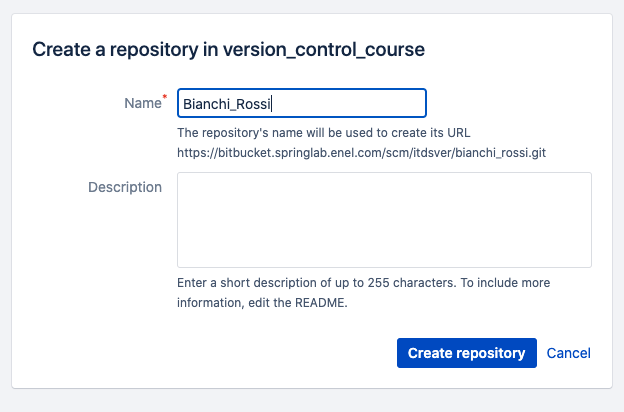
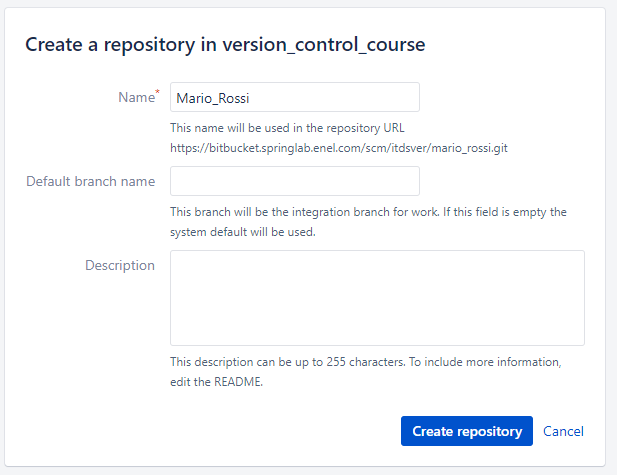
version control scenario 4: rewording step 1

diff --git a/version-control/web-repo-hosting/step1.md b/version-control/web-repo-hosting/step1.md
@@ -8,8 +8,6 @@ In this step:
 * You must have an Enel account and be able to access the Springlab environment.
 * You must have the right permission level to create a new repository in the 
 **version_control_course_project**
-* You must have a partner. (*Collaboration* is the key! :-))
-* All this task (except where specified) must be executed with only one account. (let's say pair programming style!)
 
 ##### Create new Repository
 First of all we need a new remote repository. Such repository will host our awesome code.
@@ -19,9 +17,9 @@ Go to [version_control_course](https://bitbucket.springlab.enel.com/projects/ITD
 
 ![](./assets/create_new_repository_button.png)
 
-The repository name must be the concatenation of yours surnames with "_" as delimiter.
+The repository name must be the concatenation of your name and surname with "_" as delimiter.
 
-> Surname1: Bianchi, Surname2: Rossi -> Repository name: Bianchi_Rossi
+> Name: Mario, Surname: Rossi -> Repository name: Mario_Rossi
 
 ![](./assets/create_repo_name.png)
 
@@ -31,8 +29,6 @@ Once you create the repository, if you come back at the [version_control_course]
 Now it's time to write some code and begin your new project. This project will be host on the repository created at step before.
 
 Before write some code we need to configure Git with our username and password:
-
->This task must be executed in both accounts.
 
 ```git config --global user.name "<your-name>"```{{copy}}
 
@@ -73,7 +69,7 @@ Issue the command below
 
 substituting `<your repository name>` with the actual name of repository you created before.
 
-> E.g.: Bianchi_Rossi is the name of repository, the command is `git remote add origin https://bitbucket.springlab.enel.com/scm/itdsver/Bianchi_Rossi.git`
+> E.g.: Mario_Rossi is the name of repository, the command is `git remote add origin https://bitbucket.springlab.enel.com/scm/itdsver/mario-rossi.git`
 
 With this command we've added a new origin and we can push on remote repository to sync our changes.
 
